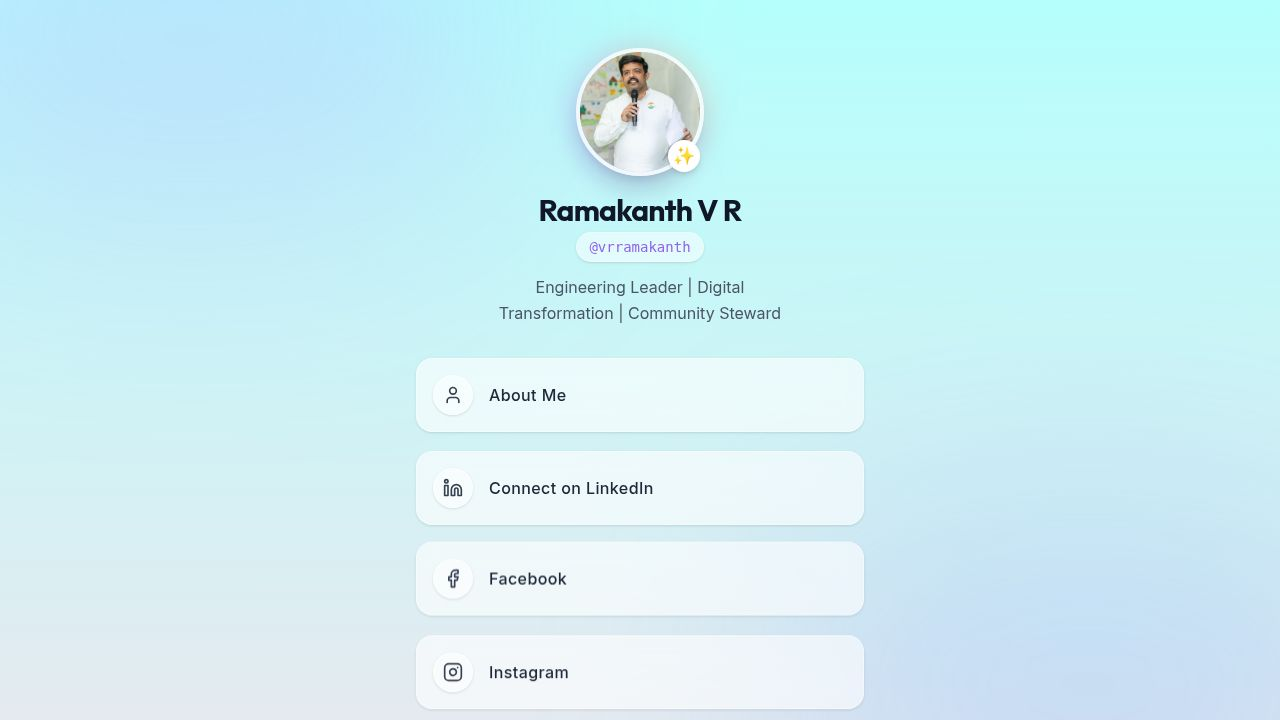
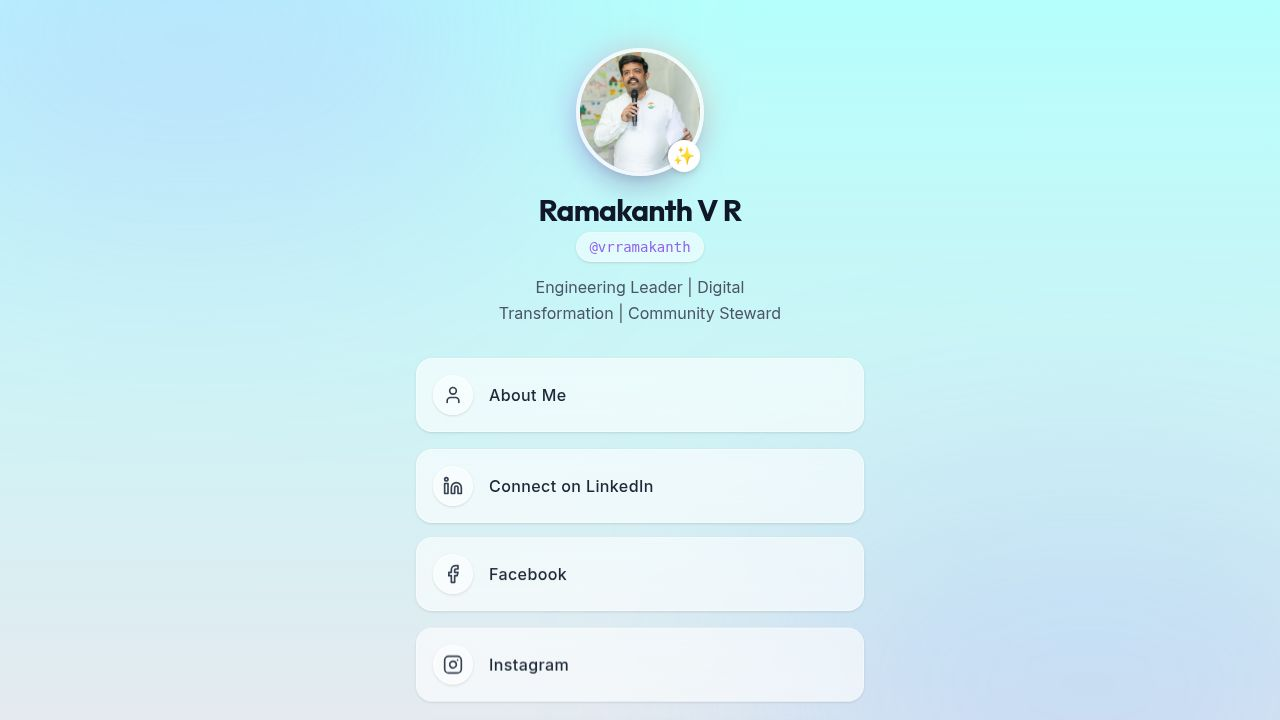
Add office desk image to About Me page
Adds an image of the professional workspace to the top of the About Me section on client/src/pages/about.tsx.

Replit-Commit-Author: Agent
Replit-Commit-Session-Id: 6cde0cf3-41f9-4d38-85a1-f5f689233706
Replit-Commit-Checkpoint-Type: full_checkpoint
Replit-Commit-Event-Id: 5383e31c-b5d8-4735-a187-2dab46c79644
Replit-Commit-Screenshot-Url: https://storage.googleapis.com/screenshot-production-us-central1/6ede011b-3a1d-4f88-9363-44ff94fe1634/6cde0cf3-41f9-4d38-85a1-f5f689233706/ibDrenU
Replit-Helium-Checkpoint-Created: true

diff --git a/client/src/pages/about.tsx b/client/src/pages/about.tsx
@@ -86,6 +86,13 @@ export default function About() {
             ✨ About Me
           </h3>
           <div className="space-y-6">
+            <div className="mb-6">
+              <img 
+                src="/office_desk.png" 
+                alt="Professional Workspace" 
+                className="w-full rounded-2xl shadow-lg border border-white/20 object-cover aspect-[4/3]"
+              />
+            </div>
             {userData.aboutMe.split('\n\n').map((para, i) => (
               <p key={i} className="text-base text-gray-700 leading-relaxed">{para}</p>
             ))}
